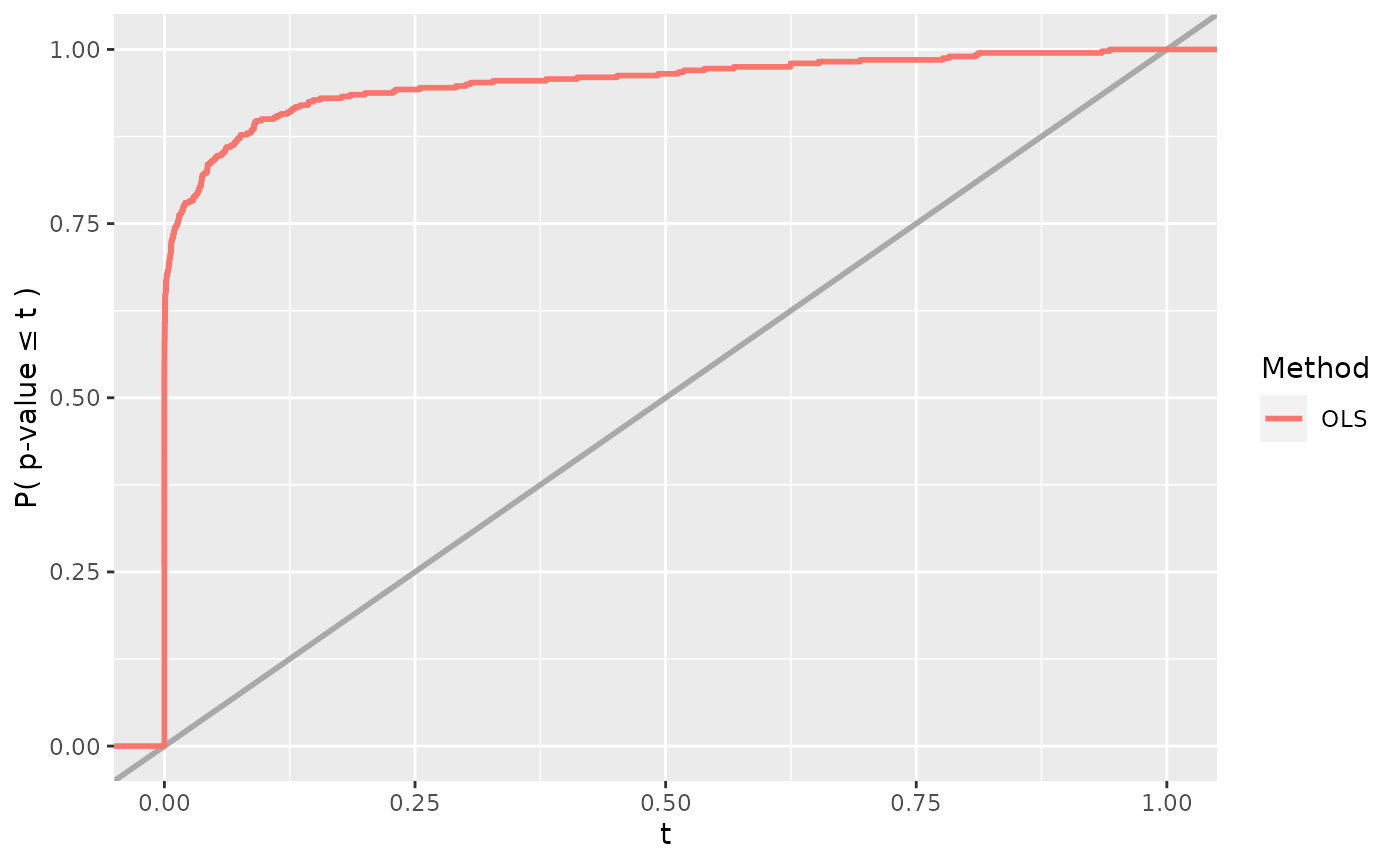
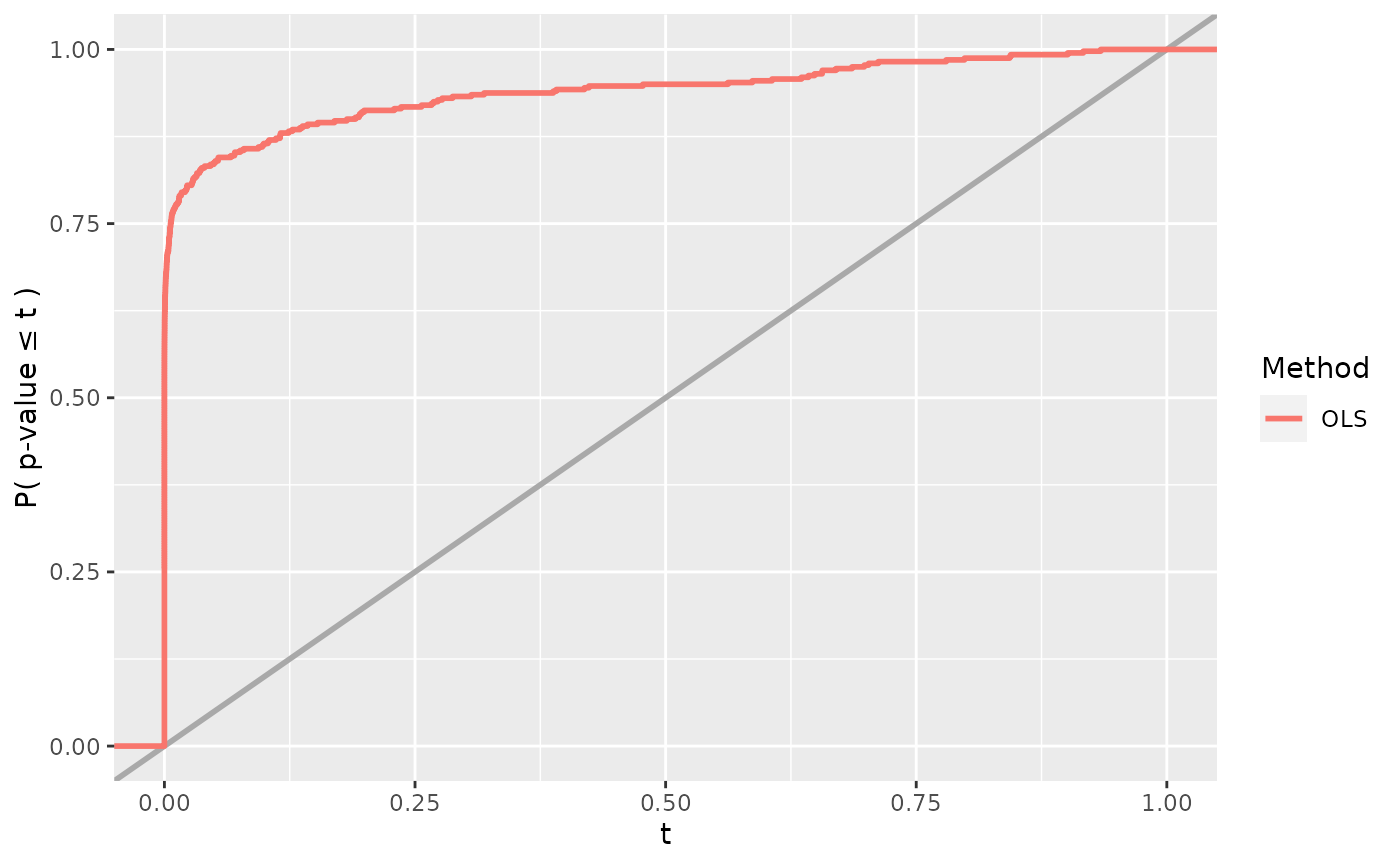
Built site for simChef: 0.0.1@6dba941

Changed region(s): [[0.1536, 0.0312, 0.7371, 0.1873], [0.1229, 0.1873, 0.1536, 0.2809], [0.0921, 0.2809, 0.1229, 0.3121]]

diff --git a/articles/simChef.html b/articles/simChef.html
@@ -269,20 +269,20 @@
 <div class="sourceCode" id="cb14"><pre class="downlit sourceCode r">
 <code class="sourceCode R"><span class="va">results</span> <span class="op">&lt;-</span> <span class="va">experiment</span><span class="op">$</span><span class="fu">run</span><span class="op">(</span>n_reps <span class="op">=</span> <span class="fl">100</span>, save <span class="op">=</span> <span class="cn">TRUE</span><span class="op">)</span>
 <span class="co">#&gt; Fitting Linear Regression Experiment...</span>
-<span class="co">#&gt; Fitting completed | time taken: 0.027995 minutes</span>
+<span class="co">#&gt; Fitting completed | time taken: 0.031218 minutes</span>
 <span class="co">#&gt; Saving fit results...</span>
-<span class="co">#&gt; Fit results saved | time taken: 0.018948 seconds</span>
+<span class="co">#&gt; Fit results saved | time taken: 0.020595 seconds</span>
 <span class="co">#&gt; ==============================</span>
 <span class="co">#&gt; Evaluating Linear Regression Experiment...</span>
 <span class="co">#&gt; `summarise()` has grouped output by 'dgp_name'. You can override using the `.groups` argument.</span>
-<span class="co">#&gt; Evaluation completed | time taken: 0.000249 minutes</span>
+<span class="co">#&gt; Evaluation completed | time taken: 0.000269 minutes</span>
 <span class="co">#&gt; Saving eval results...</span>
-<span class="co">#&gt; Eval results saved | time taken: 0.017565 seconds</span>
+<span class="co">#&gt; Eval results saved | time taken: 0.019027 seconds</span>
 <span class="co">#&gt; ==============================</span>
 <span class="co">#&gt; Visualizing Linear Regression Experiment...</span>
-<span class="co">#&gt; Visualization completed | time taken: 0.001897 minutes</span>
+<span class="co">#&gt; Visualization completed | time taken: 0.002095 minutes</span>
 <span class="co">#&gt; Saving visualize results...</span>
-<span class="co">#&gt; Visualize results saved | time taken: 0.066079 seconds</span>
+<span class="co">#&gt; Visualize results saved | time taken: 0.074345 seconds</span>
 <span class="co">#&gt; ==============================</span></code></pre></div>
 <p>or alternatively,</p>
 <div class="sourceCode" id="cb15"><pre class="downlit sourceCode r">
@@ -310,23 +310,23 @@
 <span class="co">#&gt; # A tibble: 100 × 5</span>
 <span class="co">#&gt;    rep   dgp_name            method_name `X1 p-value` `X2 p-value`</span>
 <span class="co">#&gt;    &lt;chr&gt; &lt;chr&gt;               &lt;chr&gt;              &lt;dbl&gt;        &lt;dbl&gt;</span>
-<span class="co">#&gt;  1 1     Linear Gaussian DGP OLS             8.54e-32       0.581 </span>
-<span class="co">#&gt;  2 2     Linear Gaussian DGP OLS             4.48e-33       0.0170</span>
-<span class="co">#&gt;  3 3     Linear Gaussian DGP OLS             8.57e-29       0.899 </span>
-<span class="co">#&gt;  4 4     Linear Gaussian DGP OLS             3.66e-46       0.605 </span>
-<span class="co">#&gt;  5 5     Linear Gaussian DGP OLS             5.77e-34       0.296 </span>
-<span class="co">#&gt;  6 6     Linear Gaussian DGP OLS             1.05e-31       0.323 </span>
-<span class="co">#&gt;  7 7     Linear Gaussian DGP OLS             3.17e-31       0.347 </span>
-<span class="co">#&gt;  8 8     Linear Gaussian DGP OLS             2.45e-44       0.382 </span>
-<span class="co">#&gt;  9 9     Linear Gaussian DGP OLS             1.47e-31       0.385 </span>
-<span class="co">#&gt; 10 10    Linear Gaussian DGP OLS             3.95e-38       0.395 </span>
+<span class="co">#&gt;  1 1     Linear Gaussian DGP OLS             1.58e-32       0.971 </span>
+<span class="co">#&gt;  2 2     Linear Gaussian DGP OLS             2.34e-29       0.277 </span>
+<span class="co">#&gt;  3 3     Linear Gaussian DGP OLS             4.52e-36       0.505 </span>
+<span class="co">#&gt;  4 4     Linear Gaussian DGP OLS             4.25e-32       0.904 </span>
+<span class="co">#&gt;  5 5     Linear Gaussian DGP OLS             4.47e-33       0.958 </span>
+<span class="co">#&gt;  6 6     Linear Gaussian DGP OLS             9.17e-31       0.797 </span>
+<span class="co">#&gt;  7 7     Linear Gaussian DGP OLS             1.69e-27       0.579 </span>
+<span class="co">#&gt;  8 8     Linear Gaussian DGP OLS             3.85e-28       0.578 </span>
+<span class="co">#&gt;  9 9     Linear Gaussian DGP OLS             2.82e-30       0.414 </span>
+<span class="co">#&gt; 10 10    Linear Gaussian DGP OLS             1.45e-23       0.0949</span>
 <span class="co">#&gt; # … with 90 more rows</span>
 <span class="va">results</span><span class="op">$</span><span class="va">eval_results</span>
 <span class="co">#&gt; $`Rejection Prob. (alpha = 0.1)`</span>
 <span class="co">#&gt; # A tibble: 1 × 4</span>
 <span class="co">#&gt;   dgp_name            method_name `X1 Reject Prob.` `X2 Reject Prob.`</span>
 <span class="co">#&gt;   &lt;chr&gt;               &lt;chr&gt;                   &lt;dbl&gt;             &lt;dbl&gt;</span>
-<span class="co">#&gt; 1 Linear Gaussian DGP OLS                         1              0.07</span>
+<span class="co">#&gt; 1 Linear Gaussian DGP OLS                         1              0.11</span>
 <span class="va">results</span><span class="op">$</span><span class="va">visualize_results</span>
 <span class="co">#&gt; $Power</span></code></pre></div>
 <p><img src="simChef_files/figure-html/unnamed-chunk-17-1.png" width="700"></p>
@@ -374,26 +374,26 @@
 <div class="sourceCode" id="cb21"><pre class="downlit sourceCode r">
 <code class="sourceCode R"><span class="va">vary_results</span> <span class="op">&lt;-</span> <span class="va">experiment</span><span class="op">$</span><span class="fu">run</span><span class="op">(</span>n_reps <span class="op">=</span> <span class="fl">100</span>, save <span class="op">=</span> <span class="cn">TRUE</span><span class="op">)</span>
 <span class="co">#&gt; Fitting Linear Regression Experiment...</span>
-<span class="co">#&gt; Fitting completed | time taken: 0.062118 minutes</span>
+<span class="co">#&gt; Fitting completed | time taken: 0.069548 minutes</span>
 <span class="co">#&gt; Saving fit results...</span>
-<span class="co">#&gt; Fit results saved | time taken: 0.067190 seconds</span>
+<span class="co">#&gt; Fit results saved | time taken: 0.069609 seconds</span>
 <span class="co">#&gt; ==============================</span>
 <span class="co">#&gt; Evaluating Linear Regression Experiment...</span>
-<span class="co">#&gt; Evaluation completed | time taken: 0.000301 minutes</span>
+<span class="co">#&gt; Evaluation completed | time taken: 0.000329 minutes</span>
 <span class="co">#&gt; Saving eval results...</span>
-<span class="co">#&gt; Eval results saved | time taken: 0.032524 seconds</span>
+<span class="co">#&gt; Eval results saved | time taken: 0.033860 seconds</span>
 <span class="co">#&gt; ==============================</span>
 <span class="co">#&gt; Visualizing Linear Regression Experiment...</span>
-<span class="co">#&gt; Visualization completed | time taken: 0.000262 minutes</span>
+<span class="co">#&gt; Visualization completed | time taken: 0.000314 minutes</span>
 <span class="co">#&gt; Saving visualize results...</span>
-<span class="co">#&gt; Visualize results saved | time taken: 0.072884 seconds</span>
+<span class="co">#&gt; Visualize results saved | time taken: 0.080076 seconds</span>
 <span class="co">#&gt; ==============================</span>
 <span class="va">vary_results</span><span class="op">$</span><span class="va">eval_results</span>
 <span class="co">#&gt; $`Rejection Prob. (alpha = 0.1)`</span>
 <span class="co">#&gt; # A tibble: 1 × 4</span>
 <span class="co">#&gt;   dgp_name            method_name `X1 Reject Prob.` `X2 Reject Prob.`</span>
 <span class="co">#&gt;   &lt;chr&gt;               &lt;chr&gt;                   &lt;dbl&gt;             &lt;dbl&gt;</span>
-<span class="co">#&gt; 1 Linear Gaussian DGP OLS                       0.9              0.11</span>
+<span class="co">#&gt; 1 Linear Gaussian DGP OLS                     0.865              0.09</span>
 <span class="va">vary_results</span><span class="op">$</span><span class="va">visualize_results</span>
 <span class="co">#&gt; $Power</span></code></pre></div>
 <p><img src="simChef_files/figure-html/unnamed-chunk-22-1.png" width="700"></p>
@@ -446,29 +446,29 @@
   <span class="fu"><a href="../reference/update_funs.html">update_visualizer</a></span><span class="op">(</span><span class="va">power_plot</span>, name <span class="op">=</span> <span class="st">"Power"</span><span class="op">)</span> <span class="op">%&gt;%</span>
   <span class="fu"><a href="../reference/run_experiment.html">run_experiment</a></span><span class="op">(</span>n_reps <span class="op">=</span> <span class="fl">100</span>, save <span class="op">=</span> <span class="cn">TRUE</span><span class="op">)</span>
 <span class="co">#&gt; Fitting Linear Regression Experiment...</span>
-<span class="co">#&gt; Fitting completed | time taken: 0.062181 minutes</span>
+<span class="co">#&gt; Fitting completed | time taken: 0.070415 minutes</span>
 <span class="co">#&gt; Saving fit results...</span>
-<span class="co">#&gt; Fit results saved | time taken: 0.036635 seconds</span>
+<span class="co">#&gt; Fit results saved | time taken: 0.044877 seconds</span>
 <span class="co">#&gt; ==============================</span>
 <span class="co">#&gt; Evaluating Linear Regression Experiment...</span>
-<span class="co">#&gt; Evaluation completed | time taken: 0.000192 minutes</span>
+<span class="co">#&gt; Evaluation completed | time taken: 0.000252 minutes</span>
 <span class="co">#&gt; Saving eval results...</span>
-<span class="co">#&gt; Eval results saved | time taken: 0.035191 seconds</span>
+<span class="co">#&gt; Eval results saved | time taken: 0.038014 seconds</span>
 <span class="co">#&gt; ==============================</span>
 <span class="co">#&gt; Visualizing Linear Regression Experiment...</span>
-<span class="co">#&gt; Visualization completed | time taken: 0.000458 minutes</span>
+<span class="co">#&gt; Visualization completed | time taken: 0.000506 minutes</span>
 <span class="co">#&gt; Saving visualize results...</span>
-<span class="co">#&gt; Visualize results saved | time taken: 0.083694 seconds</span>
+<span class="co">#&gt; Visualize results saved | time taken: 0.093038 seconds</span>
 <span class="co">#&gt; ==============================</span>
 <span class="va">vary_results</span><span class="op">$</span><span class="va">eval_results</span>
 <span class="co">#&gt; $`Rejection Prob. (alpha = 0.1)`</span>
 <span class="co">#&gt; # A tibble: 4 × 5</span>
 <span class="co">#&gt;   dgp_name            method_name sigma `X1 Reject Prob.` `X2 Reject Prob.`</span>
 <span class="co">#&gt;   &lt;chr&gt;               &lt;chr&gt;       &lt;dbl&gt;             &lt;dbl&gt;             &lt;dbl&gt;</span>
-<span class="co">#&gt; 1 Linear Gaussian DGP OLS             1              1                 0.1 </span>
+<span class="co">#&gt; 1 Linear Gaussian DGP OLS             1              1                 0.06</span>
 <span class="co">#&gt; 2 Linear Gaussian DGP OLS             2              1                 0.14</span>
-<span class="co">#&gt; 3 Linear Gaussian DGP OLS             4              0.98              0.12</span>
-<span class="co">#&gt; 4 Linear Gaussian DGP OLS             8              0.61              0.09</span>
+<span class="co">#&gt; 3 Linear Gaussian DGP OLS             4              0.98              0.05</span>
+<span class="co">#&gt; 4 Linear Gaussian DGP OLS             8              0.47              0.13</span>
 <span class="va">vary_results</span><span class="op">$</span><span class="va">visualize_results</span>
 <span class="co">#&gt; $Power</span></code></pre></div>
 <p><img src="simChef_files/figure-html/unnamed-chunk-25-1.png" width="700"></p>
@@ -519,19 +519,19 @@
                               <span class="fu"><a href="https://rdrr.io/r/base/c.html">c</a></span><span class="op">(</span><span class="fl">1</span>, <span class="fl">2</span><span class="op">)</span><span class="op">)</span><span class="op">)</span> <span class="op">%&gt;%</span>
   <span class="fu"><a href="../reference/run_experiment.html">run_experiment</a></span><span class="op">(</span>n_reps <span class="op">=</span> <span class="fl">100</span>, save <span class="op">=</span> <span class="cn">TRUE</span><span class="op">)</span>
 <span class="co">#&gt; Fitting Linear Regression Experiment...</span>
-<span class="co">#&gt; Fitting completed | time taken: 0.140852 minutes</span>
+<span class="co">#&gt; Fitting completed | time taken: 0.162382 minutes</span>
 <span class="co">#&gt; Saving fit results...</span>
-<span class="co">#&gt; Fit results saved | time taken: 0.041139 seconds</span>
+<span class="co">#&gt; Fit results saved | time taken: 0.050541 seconds</span>
 <span class="co">#&gt; ==============================</span>
 <span class="co">#&gt; Evaluating Linear Regression Experiment...</span>
-<span class="co">#&gt; Evaluation completed | time taken: 0.000417 minutes</span>
+<span class="co">#&gt; Evaluation completed | time taken: 0.000363 minutes</span>
 <span class="co">#&gt; Saving eval results...</span>
-<span class="co">#&gt; Eval results saved | time taken: 0.040367 seconds</span>
+<span class="co">#&gt; Eval results saved | time taken: 0.042086 seconds</span>
 <span class="co">#&gt; ==============================</span>
 <span class="co">#&gt; Visualizing Linear Regression Experiment...</span>
-<span class="co">#&gt; Visualization completed | time taken: 0.003141 minutes</span>
+<span class="co">#&gt; Visualization completed | time taken: 0.003589 minutes</span>
 <span class="co">#&gt; Saving visualize results...</span>
-<span class="co">#&gt; Visualize results saved | time taken: 0.138941 seconds</span>
+<span class="co">#&gt; Visualize results saved | time taken: 0.156302 seconds</span>
 <span class="co">#&gt; ==============================</span>
 <span class="co"># run experiment across values of rho (correlation)</span>
 <span class="va">vary_cor_results</span> <span class="op">&lt;-</span> <span class="va">experiment</span> <span class="op">%&gt;%</span>
@@ -540,19 +540,19 @@
                   rho <span class="op">=</span> <span class="fu"><a href="https://rdrr.io/r/base/c.html">c</a></span><span class="op">(</span><span class="fl">0</span>, <span class="fl">0.2</span>, <span class="fl">0.5</span>, <span class="fl">0.9</span><span class="op">)</span><span class="op">)</span> <span class="op">%&gt;%</span>
   <span class="fu"><a href="../reference/run_experiment.html">run_experiment</a></span><span class="op">(</span>n_reps <span class="op">=</span> <span class="fl">100</span>, save <span class="op">=</span> <span class="cn">TRUE</span><span class="op">)</span>
 <span class="co">#&gt; Fitting Linear Regression Experiment...</span>
-<span class="co">#&gt; Fitting completed | time taken: 0.061891 minutes</span>
+<span class="co">#&gt; Fitting completed | time taken: 0.068051 minutes</span>
 <span class="co">#&gt; Saving fit results...</span>
-<span class="co">#&gt; Fit results saved | time taken: 0.043107 seconds</span>
+<span class="co">#&gt; Fit results saved | time taken: 0.047602 seconds</span>
 <span class="co">#&gt; ==============================</span>
 <span class="co">#&gt; Evaluating Linear Regression Experiment...</span>
-<span class="co">#&gt; Evaluation completed | time taken: 0.000194 minutes</span>
+<span class="co">#&gt; Evaluation completed | time taken: 0.000242 minutes</span>
 <span class="co">#&gt; Saving eval results...</span>
-<span class="co">#&gt; Eval results saved | time taken: 0.040654 seconds</span>
+<span class="co">#&gt; Eval results saved | time taken: 0.045429 seconds</span>
 <span class="co">#&gt; ==============================</span>
 <span class="co">#&gt; Visualizing Linear Regression Experiment...</span>
-<span class="co">#&gt; Visualization completed | time taken: 0.001908 minutes</span>
+<span class="co">#&gt; Visualization completed | time taken: 0.002217 minutes</span>
 <span class="co">#&gt; Saving visualize results...</span>
-<span class="co">#&gt; Visualize results saved | time taken: 0.134580 seconds</span>
+<span class="co">#&gt; Visualize results saved | time taken: 0.146278 seconds</span>
 <span class="co">#&gt; ==============================</span></code></pre></div>
 </div>
 <div id="experiment-as-an-r6-class" class="section level2">
@@ -705,15 +705,15 @@
 <div class="sourceCode" id="cb36"><pre class="downlit sourceCode r">
 <code class="sourceCode R"><span class="va">fit_results</span> <span class="op">&lt;-</span> <span class="va">experiment</span><span class="op">$</span><span class="fu">fit</span><span class="op">(</span>n_reps <span class="op">=</span> <span class="fl">100</span><span class="op">)</span>
 <span class="co">#&gt; Fitting Linear Regression Experiment...</span>
-<span class="co">#&gt; Fitting completed | time taken: 0.064467 minutes</span>
+<span class="co">#&gt; Fitting completed | time taken: 0.073801 minutes</span>
 <span class="co">#&gt; ==============================</span>
 <span class="va">eval_results</span> <span class="op">&lt;-</span> <span class="va">experiment</span><span class="op">$</span><span class="fu">evaluate</span><span class="op">(</span><span class="va">fit_results</span><span class="op">)</span>
 <span class="co">#&gt; Evaluating Linear Regression Experiment...</span>
-<span class="co">#&gt; Evaluation completed | time taken: 0.000203 minutes</span>
+<span class="co">#&gt; Evaluation completed | time taken: 0.000232 minutes</span>
 <span class="co">#&gt; ==============================</span>
 <span class="va">visualize_results</span> <span class="op">&lt;-</span> <span class="va">experiment</span><span class="op">$</span><span class="fu">visualize</span><span class="op">(</span><span class="va">fit_results</span>, <span class="va">eval_results</span><span class="op">)</span>
 <span class="co">#&gt; Visualizing Linear Regression Experiment...</span>
-<span class="co">#&gt; Visualization completed | time taken: 0.001938 minutes</span>
+<span class="co">#&gt; Visualization completed | time taken: 0.002319 minutes</span>
 <span class="co">#&gt; ==============================</span></code></pre></div>
 <p>or alternatively,</p>
 <div class="sourceCode" id="cb37"><pre class="downlit sourceCode r">
@@ -730,38 +730,38 @@
 <span class="co">#&gt;  $ Linear Gaussian DGP:List of 4</span>
 <span class="co">#&gt;   ..$ :List of 1</span>
 <span class="co">#&gt;   .. ..$ :List of 2</span>
-<span class="co">#&gt;   .. .. ..$ X: num [1:200, 1:2] 0.155 0.858 1.544 0.568 2.629 ...</span>
+<span class="co">#&gt;   .. .. ..$ X: num [1:200, 1:2] -0.345 1.522 -0.119 -0.343 0.314 ...</span>
 <span class="co">#&gt;   .. .. .. ..- attr(*, "dimnames")=List of 2</span>
 <span class="co">#&gt;   .. .. .. .. ..$ : NULL</span>
 <span class="co">#&gt;   .. .. .. .. ..$ : NULL</span>
-<span class="co">#&gt;   .. .. ..$ y: num [1:200, 1] 1.25 2.05 1.27 1.06 2.42 ...</span>
+<span class="co">#&gt;   .. .. ..$ y: num [1:200, 1] 0.261 2.58 -0.81 0.661 -1.802 ...</span>
 <span class="co">#&gt;   .. ..- attr(*, "params")=List of 1</span>
 <span class="co">#&gt;   .. .. ..$ sigma: num 1</span>
 <span class="co">#&gt;   ..$ :List of 1</span>
 <span class="co">#&gt;   .. ..$ :List of 2</span>
-<span class="co">#&gt;   .. .. ..$ X: num [1:200, 1:2] -0.451 2.626 0.281 1.208 0.19 ...</span>
+<span class="co">#&gt;   .. .. ..$ X: num [1:200, 1:2] -0.317 -0.961 -0.199 0.418 1.446 ...</span>
 <span class="co">#&gt;   .. .. .. ..- attr(*, "dimnames")=List of 2</span>
 <span class="co">#&gt;   .. .. .. .. ..$ : NULL</span>
 <span class="co">#&gt;   .. .. .. .. ..$ : NULL</span>
-<span class="co">#&gt;   .. .. ..$ y: num [1:200, 1] 1.112 3.207 -0.865 -3.188 -3.507 ...</span>
+<span class="co">#&gt;   .. .. ..$ y: num [1:200, 1] 0.644 3.28 0.562 0.95 -1.484 ...</span>
 <span class="co">#&gt;   .. ..- attr(*, "params")=List of 1</span>
 <span class="co">#&gt;   .. .. ..$ sigma: num 2</span>
 <span class="co">#&gt;   ..$ :List of 1</span>
 <span class="co">#&gt;   .. ..$ :List of 2</span>
-<span class="co">#&gt;   .. .. ..$ X: num [1:200, 1:2] 0.467 -0.356 -0.88 0.867 -0.903 ...</span>
+<span class="co">#&gt;   .. .. ..$ X: num [1:200, 1:2] -2.0395 -1.1017 -0.1361 0.0551 0.3118 ...</span>
 <span class="co">#&gt;   .. .. .. ..- attr(*, "dimnames")=List of 2</span>
 <span class="co">#&gt;   .. .. .. .. ..$ : NULL</span>
 <span class="co">#&gt;   .. .. .. .. ..$ : NULL</span>
-<span class="co">#&gt;   .. .. ..$ y: num [1:200, 1] 0.878 -11.792 -7.034 -6.904 -3.937 ...</span>
+<span class="co">#&gt;   .. .. ..$ y: num [1:200, 1] 3.525 -4.951 2.416 0.164 -0.245 ...</span>
 <span class="co">#&gt;   .. ..- attr(*, "params")=List of 1</span>
 <span class="co">#&gt;   .. .. ..$ sigma: num 4</span>
 <span class="co">#&gt;   ..$ :List of 1</span>
 <span class="co">#&gt;   .. ..$ :List of 2</span>
-<span class="co">#&gt;   .. .. ..$ X: num [1:200, 1:2] -0.45458 0.35643 0.18352 -0.00214 -1.78167 ...</span>
+<span class="co">#&gt;   .. .. ..$ X: num [1:200, 1:2] -1.327 0.514 0.709 -0.236 -1.079 ...</span>
 <span class="co">#&gt;   .. .. .. ..- attr(*, "dimnames")=List of 2</span>
 <span class="co">#&gt;   .. .. .. .. ..$ : NULL</span>
 <span class="co">#&gt;   .. .. .. .. ..$ : NULL</span>
-<span class="co">#&gt;   .. .. ..$ y: num [1:200, 1] 14.77 7.24 1.54 6.53 5.48 ...</span>
+<span class="co">#&gt;   .. .. ..$ y: num [1:200, 1] -11.278 13.047 -9.561 3.12 -0.376 ...</span>
 <span class="co">#&gt;   .. ..- attr(*, "params")=List of 1</span>
 <span class="co">#&gt;   .. .. ..$ sigma: num 8</span></code></pre></div>
 <p>or alternatively,</p>

diff --git a/articles/parallel.html b/articles/parallel.html
@@ -235,7 +235,7 @@
   <span class="op">)</span>
 <span class="op">)</span>
 <span class="co">#&gt; Fitting base...</span>
-<span class="co">#&gt; Fitting completed | time taken: 0.933156 minutes</span>
+<span class="co">#&gt; Fitting completed | time taken: 1.029560 minutes</span>
 <span class="co">#&gt; ==============================</span>
 <span class="co">#&gt; # A tibble: 136 × 16</span>
 <span class="co">#&gt;    rep   dgp_name   method_name     p   rho sparsity nonzero_coeff alpha term   </span>
